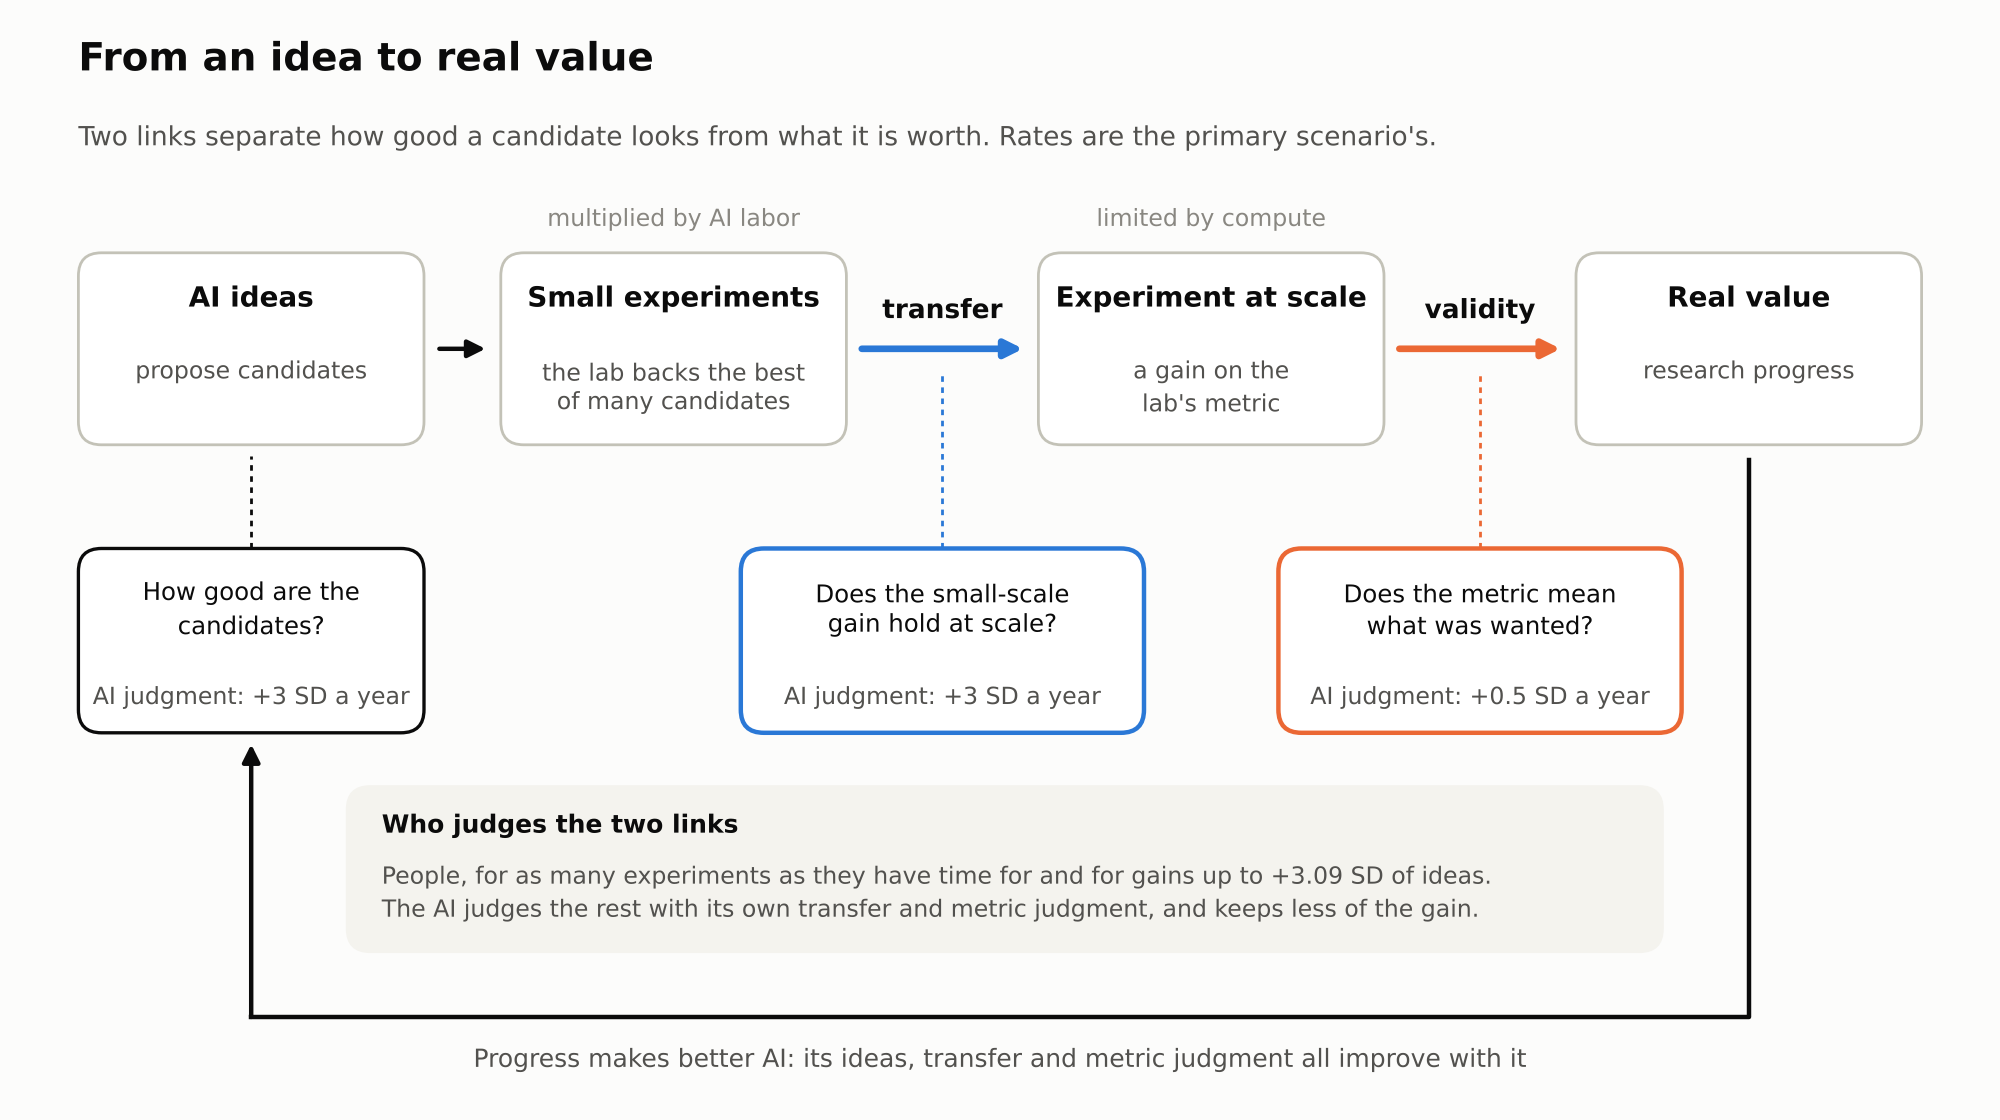
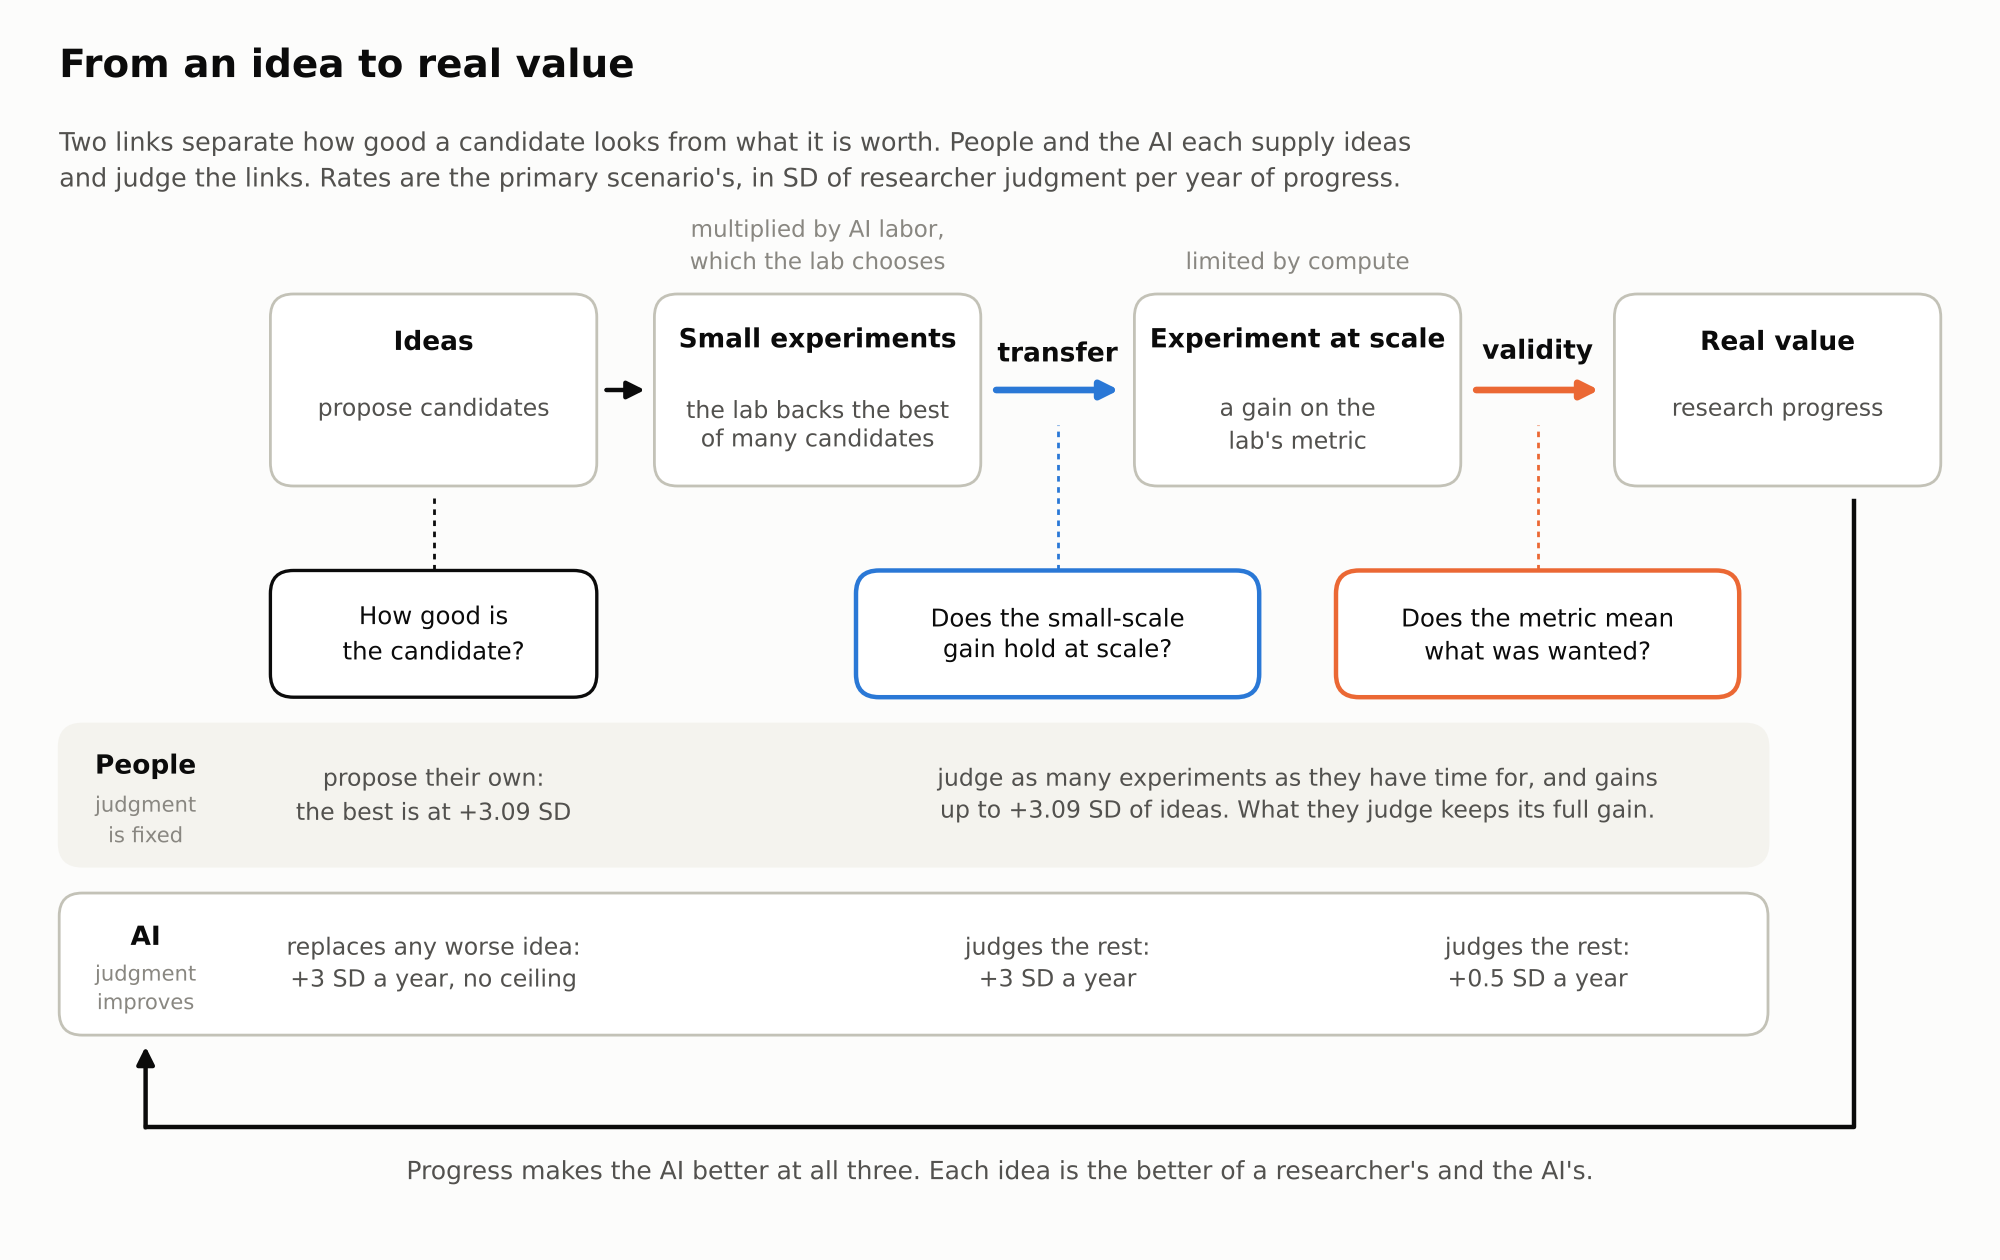
Show people's and the AI's ideas and judging in the chain diagram
The diagram had only the AI's ideas and described who judges in a note.
It now has a row for people and a row for the AI under the three
judgments, and says the lab's choice is how much AI labor to run. The
write-up states the rule for ideas: each researcher uses the better of
their own judgment and the AI's.

Claude-Session: https://claude.ai/code/session_01FEzx7rBG83QTfvYZehGYHo

diff --git a/pacing-takeoff-model/chain/diagram.py b/pacing-takeoff-model/chain/diagram.py
@@ -1,4 +1,4 @@
-"""Draw the chain from an AI's ideas to real value, and the loop back to better AI.
+"""Draw the chain from an idea to real value, who supplies each judgment, and the loop back.
 
 Writes results/chain.png. Needs matplotlib. The rates shown are the primary scenario's.
 """
@@ -15,23 +15,27 @@ import matplotlib.pyplot as plt
 from chain_model import CASES, PRIMARY, SD_RESEARCHER, Params
 from matplotlib.patches import FancyArrowPatch, FancyBboxPatch
 
-SURFACE, CARD, INK, SECONDARY, MUTED = "#fcfcfb", "#ffffff", "#0b0b0b", "#52514e", "#898781"
-EDGE = "#c3c2b7"
+SURFACE, CARD, BAND = "#fcfcfb", "#ffffff", "#f4f3ee"
+INK, SECONDARY, MUTED, EDGE = "#0b0b0b", "#52514e", "#898781", "#c3c2b7"
 TRANSFER, VALIDITY = "#2a78d6", "#eb6834"  # the two links, as in the pace chart's palette
 OUT = Path(__file__).parent / "results" / "chain.png"
 
-# Stages of the chain: left edge, title, what happens there. Units are hundredths of the width.
-STAGE_W, STAGE_Y, STAGE_H = 18.0, 34.0, 10.0
+# The chain's stages: left edge, title, what happens there. Units are hundredths of the width.
+STAGE_W, STAGE_Y, STAGE_H = 17.0, 39.0, 10.0
 STAGES = (
-    (2.0, "AI ideas", "propose candidates"),
-    (24.0, "Small experiments", "the lab backs the best\nof many candidates"),
-    (52.0, "Experiment at scale", "a gain on the\nlab's metric"),
-    (80.0, "Real value", "research progress"),
+    (12.0, "Ideas", "propose candidates"),
+    (32.0, "Small experiments", "the lab backs the best\nof many candidates"),
+    (57.0, "Experiment at scale", "a gain on the\nlab's metric"),
+    (82.0, "Real value", "research progress"),
 )
-CARD_Y, CARD_H = 19.0, 9.6  # the cards under the stages that say what each judgment decides
+# Under the chain, one column per judgment and one row per judge.
+COL_W = 21.0
+QUESTION_Y, QUESTION_H = 28.0, 6.6
+PEOPLE_Y, AI_Y, ROW_H = 19.2, 10.4, 7.4
+LABELS_X, BAND_LEFT, BAND_RIGHT = 5.5, 1.0, 90.0
 
 
-def box(ax, x, y, w, h, edge=EDGE, lw=1.0, fill=CARD):
+def box(ax, x, y, w, h, edge=EDGE, lw=1.0, fill=CARD, z=2):
     ax.add_patch(
         FancyBboxPatch(
             (x, y),
@@ -41,12 +45,12 @@ def box(ax, x, y, w, h, edge=EDGE, lw=1.0, fill=CARD):
             fc=fill,
             ec=edge,
             lw=lw,
-            zorder=2,
+            zorder=z,
         )
     )
 
 
-def arrow(ax, start, end, color=INK, lw=1.6, style="arc3"):
+def arrow(ax, start, end, color=INK, lw=1.6):
     ax.add_patch(
         FancyArrowPatch(
             start,
@@ -55,126 +59,117 @@ def arrow(ax, start, end, color=INK, lw=1.6, style="arc3"):
             mutation_scale=13,
             color=color,
             lw=lw,
-            connectionstyle=style,
             shrinkA=0,
             shrinkB=0,
             zorder=3,
-        )
+        )  # fmt: skip
     )
 
 
-def rate(sd: float) -> str:
-    return f"+{sd:g} SD a year"
+def cell(ax, x, y, text, color=SECONDARY, size=8.5, weight="normal"):
+    ax.text(
+        x, y, text, ha="center", va="center", color=color, fontsize=size, fontweight=weight,
+        linespacing=1.35, zorder=4,
+    )  # fmt: skip
 
 
 def main() -> None:
     p = replace(Params(), **dict(CASES)[PRIMARY])
+    top = f"+{SD_RESEARCHER:.2f} SD"
     plt.rcParams.update({"font.family": "DejaVu Sans", "font.size": 10})
-    fig, ax = plt.subplots(figsize=(10.0, 5.6), dpi=200)
+    fig, ax = plt.subplots(figsize=(10.0, 6.3), dpi=200)
     fig.patch.set_facecolor(SURFACE)
     ax.set_facecolor(SURFACE)
     ax.set_xlim(0, 100)
-    ax.set_ylim(0, 56)
+    ax.set_ylim(0, 63)
     ax.axis("off")
     fig.subplots_adjust(left=0.02, right=0.98, top=0.98, bottom=0.02)
 
-    ax.text(2, 53.5, "From an idea to real value", color=INK, fontsize=14, fontweight="bold")
+    ax.text(1, 60.3, "From an idea to real value", color=INK, fontsize=14, fontweight="bold")
     ax.text(
-        2,
-        49.6,
-        "Two links separate how good a candidate looks from what it is worth. "
-        "Rates are the primary scenario's.",
+        1,
+        54.6,
+        "Two links separate how good a candidate looks from what it is worth. People and the AI "
+        "each supply ideas\nand judge the links. Rates are the primary scenario's, in SD of "
+        "researcher judgment per year of progress.",
         color=SECONDARY,
-        fontsize=9.5,
-    )
-
-    mid = STAGE_Y + STAGE_H / 2
-    for x, title, what in STAGES:
-        box(ax, x, STAGE_Y, STAGE_W, STAGE_H)
-        ax.text(x + STAGE_W / 2, mid + 2.2, title, ha="center", color=INK, fontweight="bold")
-        ax.text(
-            x + STAGE_W / 2,
-            mid - 0.4,
-            what,
-            ha="center",
-            va="top",
-            color=SECONDARY,
-            fontsize=8.5,
-            linespacing=1.3,
-        )
-
-    # Arrows between stages. The second and third are the two links.
-    edges = [x for x, *_ in STAGES]
-    arrow(ax, (edges[0] + STAGE_W + 0.8, mid), (edges[1] - 0.8, mid))
-    links = (
-        (1, "transfer", TRANSFER, "Does the small-scale\ngain hold at scale?", p.transfer_rate),
-        (2, "validity", VALIDITY, "Does the metric mean\nwhat was wanted?", p.metric_rate),
-    )
-    for k, name, color, question, sd in links:
-        left, right = edges[k] + STAGE_W + 0.8, edges[k + 1] - 0.8
-        centre = (left + right) / 2
-        arrow(ax, (left, mid), (right, mid), color=color, lw=2.4)
-        ax.text(centre, mid + 1.6, name, ha="center", color=INK, fontweight="bold", fontsize=9.5)
-        # A card under each link: the question it asks and how fast the AI gets better at it.
-        w, h, y = 21.0, CARD_H, CARD_Y
-        box(ax, centre - w / 2, y, w, h, edge=color, lw=1.6)
-        ax.plot([centre, centre], [y + h, mid - 1.2], color=color, lw=1.0, ls=(0, (2, 2)), zorder=1)
-        ax.text(
-            centre, y + h - 1.5, question, ha="center", va="top", color=INK, fontsize=8.8,
-            linespacing=1.3,
-        )  # fmt: skip
-        ax.text(
-            centre, y + 1.5, f"AI judgment: {rate(sd)}", ha="center", color=SECONDARY, fontsize=8.5
-        )
-
-    # The same card for the AI's ideas, under the first stage.
-    first = edges[0] + STAGE_W / 2
-    box(ax, edges[0], CARD_Y, STAGE_W, CARD_H, edge=INK, lw=1.2)
-    ax.plot([first, first], [CARD_Y + CARD_H, STAGE_Y - 0.6], color=INK, lw=1.0, ls=(0, (2, 2)),
-            zorder=1)  # fmt: skip
-    ax.text(
-        first, CARD_Y + CARD_H - 1.5, "How good are the\ncandidates?", ha="center", va="top",
-        color=INK, fontsize=8.8, linespacing=1.3,
-    )  # fmt: skip
-    ax.text(
-        first, CARD_Y + 1.5, f"AI judgment: {rate(p.idea_rate)}", ha="center", color=SECONDARY,
-        fontsize=8.5,
-    )  # fmt: skip
-    ax.text(
-        edges[2] + STAGE_W / 2, STAGE_Y + STAGE_H + 1.4, "limited by compute", ha="center",
-        color=MUTED, fontsize=8.5,
-    )  # fmt: skip
-    ax.text(
-        edges[1] + STAGE_W / 2, STAGE_Y + STAGE_H + 1.4, "multiplied by AI labor", ha="center",
-        color=MUTED, fontsize=8.5,
-    )  # fmt: skip
-
-    # Who supplies the judgment on the two links.
-    y, h = 7.6, 8.6
-    box(ax, 16.0, y, 68.5, h, fill="#f4f3ee", edge="#f4f3ee")
-    ax.text(17.8, y + h - 2.4, "Who judges the two links", color=INK, fontweight="bold", fontsize=9)
-    ax.text(
-        17.8,
-        y + 1.3,
-        "People, for as many experiments as they have time for and for gains up to "
-        f"+{SD_RESEARCHER:.2f} SD of ideas.\nThe AI judges the rest with its own transfer and "
-        "metric judgment, and keeps less of the gain.",
-        color=SECONDARY,
-        fontsize=8.5,
-        va="bottom",
+        fontsize=9.2,
         linespacing=1.4,
     )
 
+    mid = STAGE_Y + STAGE_H / 2
+    edges = [x for x, *_ in STAGES]
+    for x, title, what in STAGES:
+        box(ax, x, STAGE_Y, STAGE_W, STAGE_H)
+        cell(ax, x + STAGE_W / 2, mid + 2.6, title, color=INK, size=9.5, weight="bold")
+        ax.text(
+            x + STAGE_W / 2, mid - 0.2, what, ha="center", va="top", color=SECONDARY, fontsize=8.5,
+            linespacing=1.3,
+        )  # fmt: skip
+    note = STAGE_Y + STAGE_H + 1.3
+    ax.text(edges[1] + STAGE_W / 2, note, "multiplied by AI labor,\nwhich the lab chooses",
+            ha="center", color=MUTED, fontsize=8.3, linespacing=1.3)  # fmt: skip
+    ax.text(edges[2] + STAGE_W / 2, note, "limited by compute", ha="center", color=MUTED,
+            fontsize=8.3)  # fmt: skip
+
+    # Arrows between stages. The second and third are the two links.
+    arrow(ax, (edges[0] + STAGE_W + 0.5, mid), (edges[1] - 0.5, mid))
+    columns = [(edges[0] + STAGE_W / 2, STAGE_W, INK, "How good is\nthe candidate?", STAGE_Y)]
+    for k, name, color, question in (
+        (1, "transfer", TRANSFER, "Does the small-scale\ngain hold at scale?"),
+        (2, "validity", VALIDITY, "Does the metric mean\nwhat was wanted?"),
+    ):
+        left, right = edges[k] + STAGE_W + 0.8, edges[k + 1] - 0.8
+        arrow(ax, (left, mid), (right, mid), color=color, lw=2.4)
+        cell(ax, (left + right) / 2, mid + 2.0, name, color=INK, size=9.5, weight="bold")
+        columns.append(((left + right) / 2, COL_W, color, question, mid - 1.2))
+
+    # The two judges, as bands across the columns.
+    for y, name, what, fill, edge in (
+        (PEOPLE_Y, "People", "judgment\nis fixed", BAND, BAND),
+        (AI_Y, "AI", "judgment\nimproves", CARD, EDGE),
+    ):
+        box(ax, BAND_LEFT, y, BAND_RIGHT - BAND_LEFT, ROW_H, fill=fill, edge=edge, z=1)
+        cell(ax, LABELS_X, y + ROW_H - 2.2, name, color=INK, size=9.5, weight="bold")
+        cell(ax, LABELS_X, y + 2.4, what, color=MUTED, size=7.6)
+
+    # A question heads each column, joined to the stage or link it is about.
+    for centre, w, color, question, upto in columns:
+        strong = color != INK
+        box(ax, centre - w / 2, QUESTION_Y, w, QUESTION_H, edge=color, lw=1.6 if strong else 1.2)
+        ax.plot([centre, centre], [QUESTION_Y + QUESTION_H, upto - 0.6], color=color, lw=1.0,
+                ls=(0, (2, 2)), zorder=1)  # fmt: skip
+        cell(ax, centre, QUESTION_Y + QUESTION_H / 2, question, color=INK, size=8.8)
+
+    ideas, transfer, validity = (centre for centre, *_ in columns)
+    row = PEOPLE_Y + ROW_H / 2
+    cell(ax, ideas, row, f"propose their own:\nthe best is at {top}")
+    cell(
+        ax,
+        (transfer + validity) / 2,
+        row,
+        "judge as many experiments as they have time for, and gains\n"
+        f"up to {top} of ideas. What they judge keeps its full gain.",
+    )
+    row = AI_Y + ROW_H / 2
+    cell(ax, ideas, row, f"replaces any worse idea:\n+{p.idea_rate:g} SD a year, no ceiling")
+    cell(ax, transfer, row, f"judges the rest:\n+{p.transfer_rate:g} SD a year")
+    cell(ax, validity, row, f"judges the rest:\n+{p.metric_rate:g} SD a year")
+
     # The loop: real progress makes better AI.
-    right, left, low = edges[3] + STAGE_W / 2, first, 4.2
-    ax.plot([right, right, left], [STAGE_Y - 0.8, low, low], color=INK, lw=1.6, zorder=1,
+    right, low = edges[3] + STAGE_W - 4.5, 5.6
+    ax.plot([right, right, LABELS_X], [STAGE_Y - 0.8, low, low], color=INK, lw=1.6, zorder=1,
             solid_joinstyle="round")  # fmt: skip
-    arrow(ax, (left, low), (left, CARD_Y - 0.6))
+    arrow(ax, (LABELS_X, low), (LABELS_X, AI_Y - 0.6))
     ax.text(
-        (left + right) / 2, low - 2.6,
-        "Progress makes better AI: its ideas, transfer and metric judgment all improve with it",
-        ha="center", color=SECONDARY, fontsize=9,
-    )  # fmt: skip
+        (LABELS_X + right) / 2,
+        low - 2.7,
+        "Progress makes the AI better at all three. Each idea is the better of a researcher's "
+        "and the AI's.",
+        ha="center",
+        color=SECONDARY,
+        fontsize=9,
+    )
 
     OUT.parent.mkdir(exist_ok=True)
     fig.savefig(OUT, facecolor=SURFACE)

diff --git a/pacing-takeoff-model/chain/README.md b/pacing-takeoff-model/chain/README.md
@@ -16,9 +16,11 @@ Terms:
 
 ## How the model works
 
-![The chain from an AI's ideas through small experiments and experiments at scale to real value, with the transfer and validity links and the loop back to better AI](results/chain.png)
+![The chain from ideas through small experiments and experiments at scale to real value. People and the AI each supply ideas and judge the transfer and validity links, and progress makes the AI better at all three](results/chain.png)
 
 **Experiments.** Experiments at scale are limited by compute. Behind each one the lab runs many small experiments and backs the candidate that looks best. AI labor raises the number of experiments a lab gets from its compute, with diminishing returns and a ceiling. It also multiplies the candidates, which helps less and less: the best of n candidates is about sqrt(2 ln n) SD better than a typical one.
+
+**Ideas.** Candidates come from people and from the AI. Each researcher uses the better of their own judgment and the AI's, which is the AI Futures Model's rule, so the AI's ideas matter once they pass the weakest researchers' and replace everyone's once they pass the best. The lab does not choose this mix. What it chooses is how much AI labor to run.
 
 **The chain.** Two links separate how good a candidate looks from what it is worth.
 
